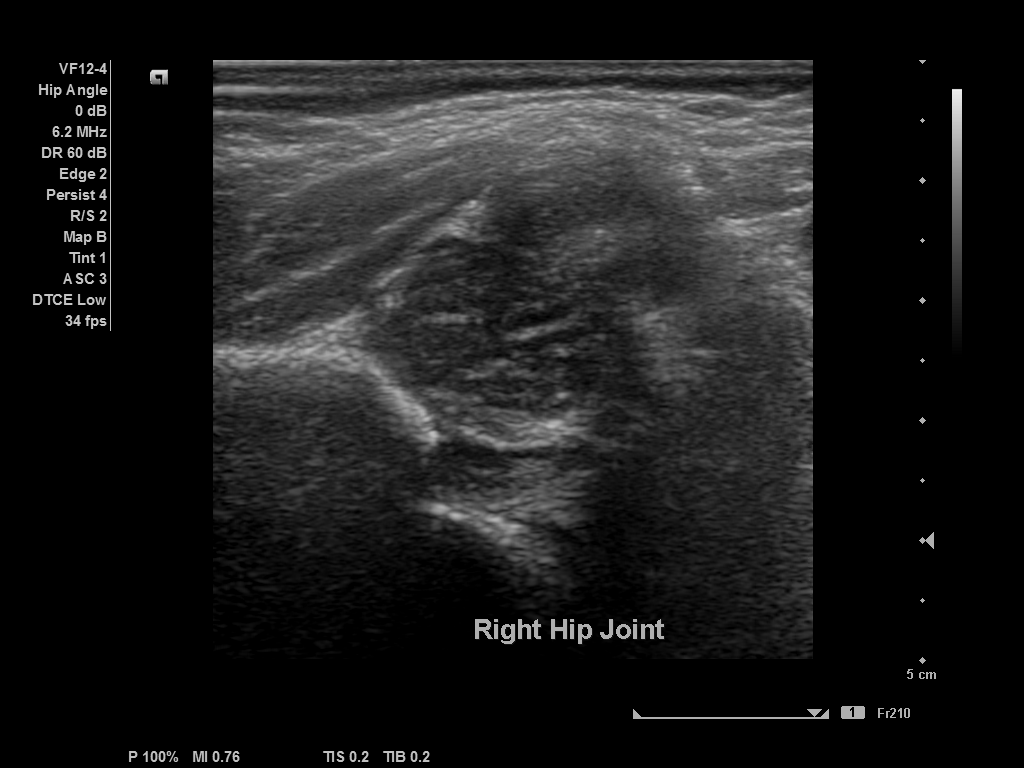
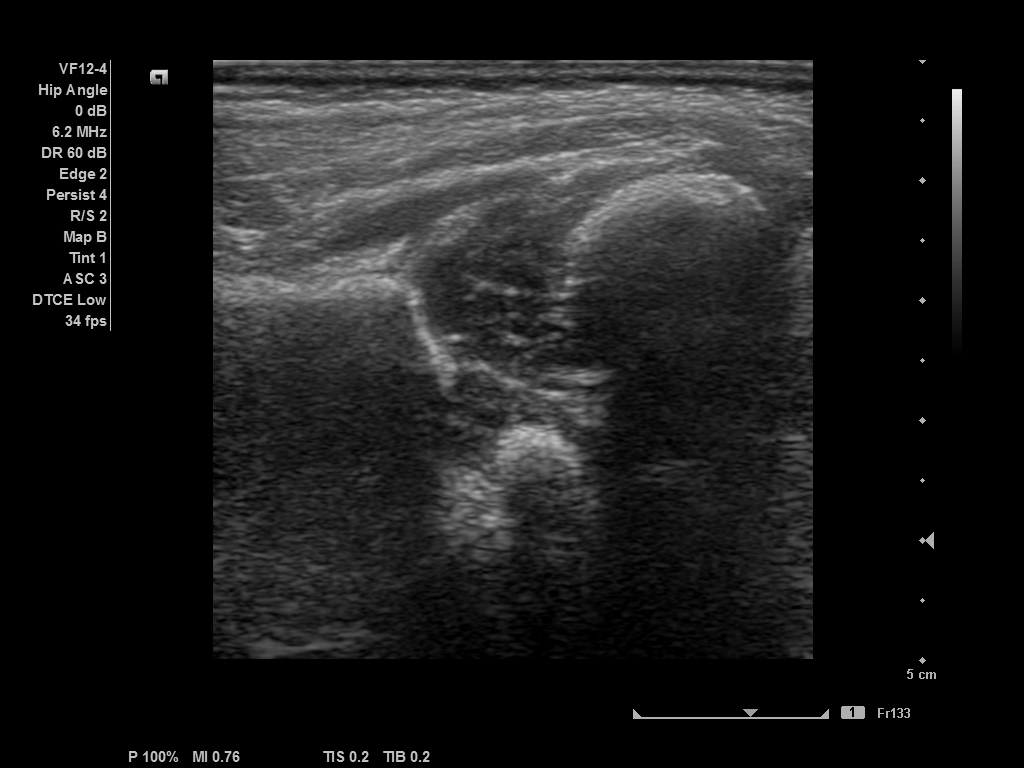
Replace examples with verified original full frames and show hollow source f

Changed region(s): [[0.1875, 0.0625, 0.8125, 0.875]]

diff --git a/index.html b/index.html
@@ -71,5 +71,5 @@
   </section>
 </main>
 <footer><p>No account, installation or dedicated GPU is required. Images are processed locally in your browser.</p><p>Research demonstration. Not for clinical use.</p></footer>
-<script type="module" src="app.mjs?v=20261011-intentional-drag"></script>
+<script type="module" src="app.mjs?v=20261011-original-examples"></script>
 </body></html>

diff --git a/README.md b/README.md
@@ -18,7 +18,7 @@ The app accepts a locally selected PNG/JPEG/WebP and first runs the existing Gra
 - Exactly three de-identified full-size 1024 × 768 examples from the non-training test partition; no identifiers in filenames or metadata. Only the identifying header is blacked out; the complete ultrasound field is retained.
 - Plain English editing controls and full-image grayscale difference display.
 
-Source and edited previews preserve the complete image and its aspect ratio. The generator still uses its original native 256 × 256 region without rescaling; its result is placed back into the original full frame. All pixels outside that region are preserved, and the difference image is zero there. Restoring the example frames does not change their original model inputs or landmark geometry.
+Source and edited previews preserve the complete image and its aspect ratio. The generator still uses its original native 256 × 256 region without rescaling; its result is placed back into the original full frame. All pixels outside that region are preserved, and the difference image is zero there. On 2026-10-11 all three examples were replaced with different original test images. Their grayscale pixels were verified against the canonical originals, and only the identifying header was masked. The ultrasound field was not resized, enhanced, overlaid or replaced by a generated output. Their five landmarks and H endpoints come from the corresponding source annotations. Example metadata and image URLs are versioned to prevent cached old images from being paired with new coordinates.
 
 The original image, five source landmarks, original H endpoints, source f and native crop are captured as a fixed baseline. Every image edit starts from the original pixels and confirmed source geometry, not a previous generated output. After automatic detection, all five uploaded-image source points remain editable until Confirm points is pressed; Run and target-angle controls are disabled during this review. Detection never starts the image-editing generator. If detection fails, source coordinates can be entered in the Landmarks fields before confirmation. Missing H endpoints can be entered there manually once, without changing the confirmed roof points or crop. Clear points returns to source-point review; Remove H clears the head annotation. The edited-image and parameter-download buttons are not provided.
 
@@ -28,7 +28,7 @@ Dragging target p4*, or changing its coordinate fields, directly changes that po
 
 The numerical target α*/β* controls retain the original angle solver, including both initial roof segment lengths and source orientation. Using an angle control leaves direct-coordinate mode and reconstructs the targets from the confirmed source, not the previous free-length targets. Both target points must stay within their respective initial p4/p5 circles and the fixed crop; numerical angle controls show the applied feasible values when a request cannot satisfy these limits. These are software interaction limits, not clinically validated motion ranges.
 
-When H has been annotated, the left image displays the fixed initial f as a blue point, the target H1/H2 as blue handles, and their midpoint f* in yellow. A blue rim remains visible when f* overlaps f. Dragging either H handle or f* translates the target diameter rigidly. Each target endpoint is rebuilt from the original H annotation and the absolute displacement δ = f* − f, not accumulated from a previous target. The fixed yellow circle is centred on original f and has exactly the same radius as both blue circles: 0.8 times the original p4–p5 segment length. Target f* is constrained to the circle intersected with the initial crop. The circles remain fixed during editing. Changing an angle, point or operation updates the controls and clears an outdated result, but never starts image-editing model loading or inference. Press Run to generate the current request. Selecting a new uploaded image runs only the source-point detector; selecting a saved example runs neither model.
+When H has been annotated, the left image displays the fixed initial f as a hollow blue marker like p1/p2, the target H1/H2 as blue handles, and their midpoint f* in yellow. A blue rim remains visible when f* overlaps f. Dragging either H handle or f* translates the target diameter rigidly. Each target endpoint is rebuilt from the original H annotation and the absolute displacement δ = f* − f, not accumulated from a previous target. The fixed yellow circle is centred on original f and has exactly the same radius as both blue circles: 0.8 times the original p4–p5 segment length. Target f* is constrained to the circle intersected with the initial crop. The circles remain fixed during editing. Changing an angle, point or operation updates the controls and clears an outdated result, but never starts image-editing model loading or inference. Press Run to generate the current request. Selecting a new uploaded image runs only the source-point detector; selecting a saved example runs neither model.
 
 The controls have directional dependencies. Directly moving p4* changes both measured roof angles but does not move p5*. Directly moving p5* changes β without moving p4* or changing α. The numerical α*/β* controls use the original fixed-length solver instead. Without a manual H override, the current target α also computes f* and rigidly translated H1/H2 from the confirmed source. Moving H1/H2/f* never changes roof landmarks or angles; the manual target persists until Reset target H restores the angle-derived target.
 
